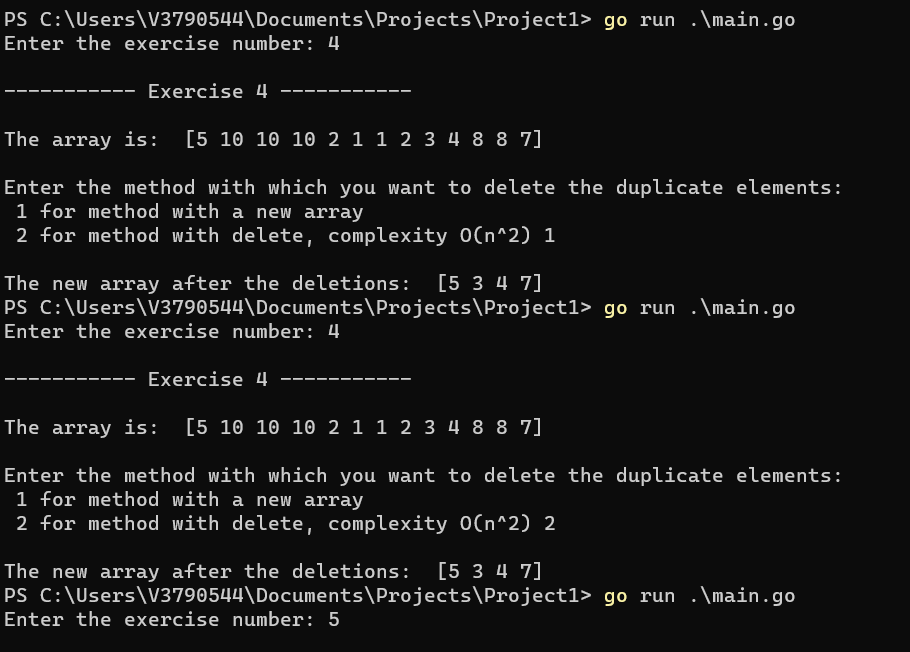
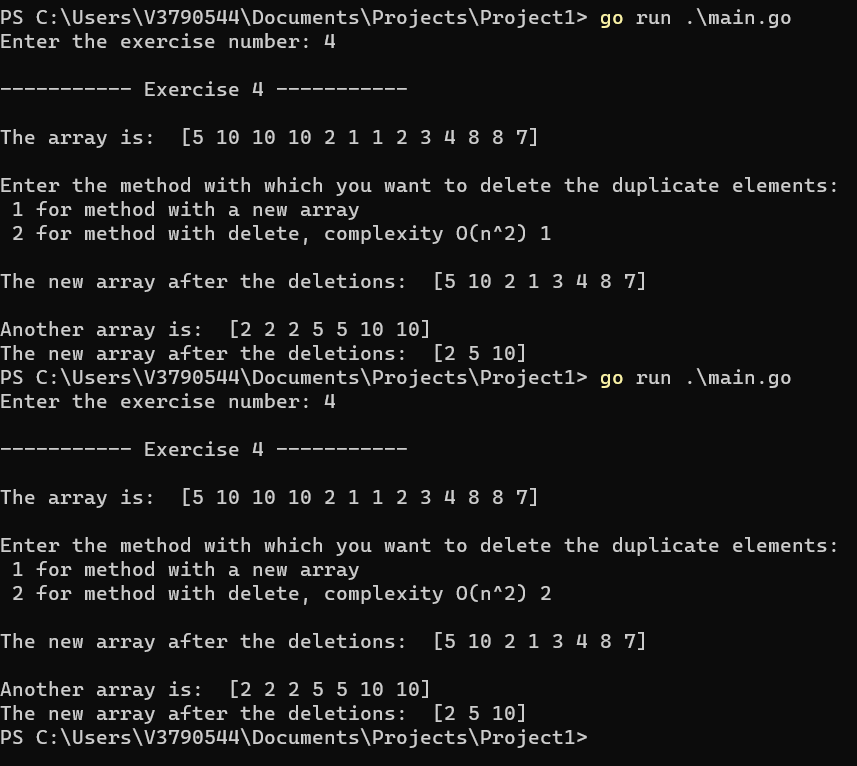
modificare ex 4 si ex 6

diff --git a/main.go b/main.go
@@ -49,6 +49,16 @@ func MaxElement(arr []int) int {
 	return maxim
 }
 
+func MinElement(arr []int) int {
+	minim := arr[0]
+	for i := 1; i < len(arr); i++ {
+		if arr[i] < minim {
+			minim = arr[i]
+		}
+	}
+	return minim
+}
+
 func FrequencyArray(arr []int, helper []int) {
 	for i := 0; i < len(arr); i++ {
 		helper[arr[i]]++
@@ -74,15 +84,16 @@ func FindDublicateElements(arr []int) {
 func DeletionWithNewArray(arr []int, helper []int) {
 	nr := 0
 	for j := 0; j < len(helper); j++ {
-		if helper[j] == 1 {
+		if helper[j] > 0 {
 			nr++
 		}
 	}
 	newArray := make([]int, nr)
 	k := 0
 	for i := 0; i < len(arr); i++ {
-		if helper[arr[i]] == 1 {
+		if helper[arr[i]] > 0 {
 			newArray[k] = arr[i]
+			helper[arr[i]] = 0
 			k++
 		}
 	}
@@ -94,6 +105,7 @@ func DeletionFromArray(arr []int, helper []int) {
 	n := len(arr)
 	for i := len(arr) - 1; i >= 0; i-- {
 		if helper[arr[i]] >= 2 {
+			helper[arr[i]]--
 			for j := i; j < len(arr)-1; j++ {
 				arr[j] = arr[j+1]
 			}
@@ -102,7 +114,7 @@ func DeletionFromArray(arr []int, helper []int) {
 	}
 
 	var newArray []int
-	newArray = append(newArray, arr[:4]...)
+	newArray = append(newArray, arr[:n]...)
 
 	fmt.Println("The new array after the deletions: ", newArray)
 }
@@ -184,13 +196,14 @@ func FindLongestPalindromicSubstring(str string) {
 
 func FindElementMissing(arr []int) {
 	maximArray := MaxElement(arr)
-	fmt.Printf("\nThe array has elements in range [ 0 , %v ].", maximArray)
+	minimArray := MinElement(arr)
+	fmt.Printf("\nThe array has elements in range [ %v , %v ].", minimArray, maximArray)
 
 	helper := make([]int, maximArray+1)
 	FrequencyArray(arr, helper)
 
 	fmt.Print("\nThe element that are missing is: ")
-	for i := 0; i < len(helper); i++ {
+	for i := minimArray; i < len(helper); i++ {
 		if helper[i] == 0 {
 			fmt.Printf("%v ", i)
 			break //because is just one element that are missing.
@@ -250,6 +263,10 @@ func main() {
 		fmt.Scan(&method)
 		fmt.Println()
 		DeleteDublicateElements(array, method)
+		fmt.Println()
+		array1 := []int{2, 2, 2, 5, 5, 10, 10}
+		fmt.Println("Another array is: ", array1)
+		DeleteDublicateElements(array1, method)
 
 	case 5:
 		fmt.Println("----------- Exercise 5 -----------")
@@ -265,7 +282,7 @@ func main() {
 	case 6:
 		fmt.Println("----------- Exercise 6 -----------")
 		fmt.Println()
-		array := []int{0, 5, 2, 3, 9, 1, 4, 6, 8}
+		array := []int{3, 4, 5, 6, 8, 9, 10}
 		fmt.Println("The array is: ", array, "In this array, just one element is missing.")
 		FindElementMissing(array)
 
